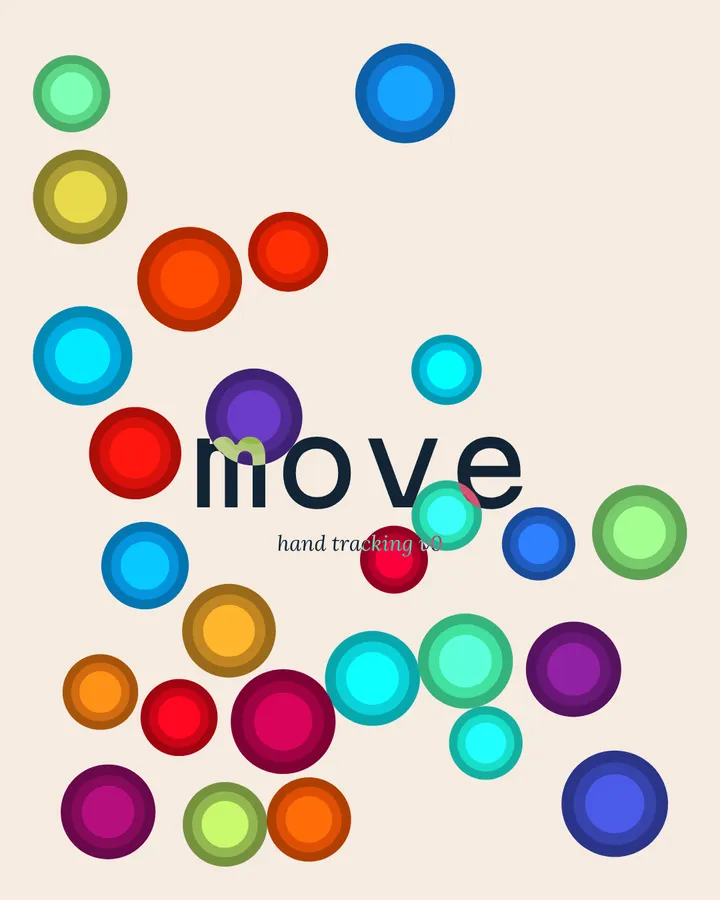
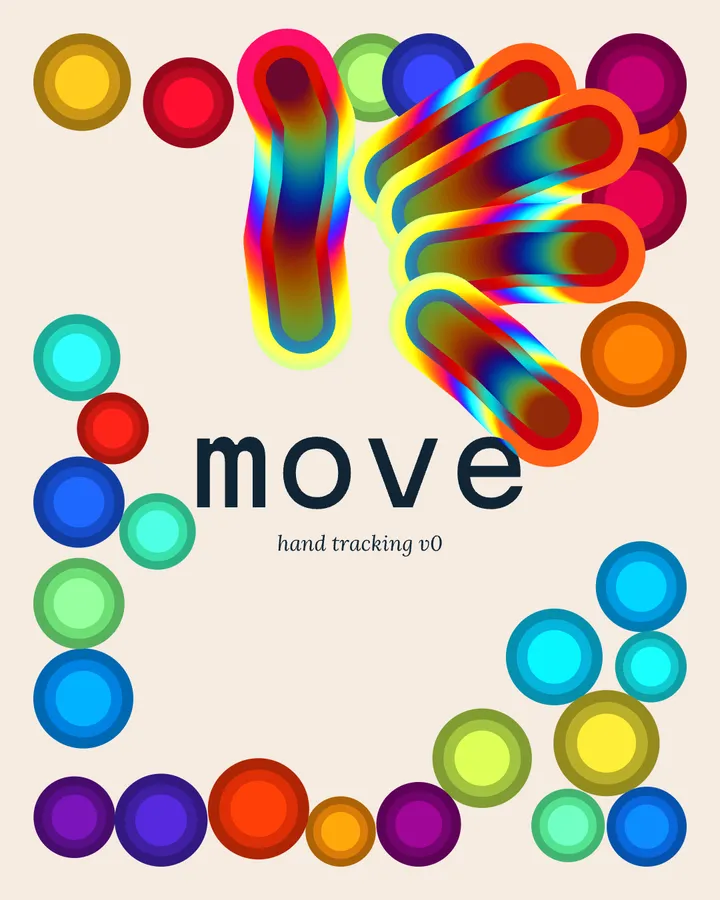
hand captures previews

diff --git a/src/templates/p5/sketches/hand-capture/hand-tracking-v0-move/options.ts b/src/templates/p5/sketches/hand-capture/hand-tracking-v0-move/options.ts
@@ -17,7 +17,7 @@ export const formValues = {
       enabled: true,
       hands: {
         ...interactionFormValues.vision.hands,
-        enabled: true,
+        enabled: false,
         landmarks: {
           fingertips: true,
           palm: true
@@ -56,7 +56,7 @@ export const formValues = {
     shadowsCount: 3,
     dotScale: 1,
     // Lower = longer light trails (less is erased each frame).
-    trail: 10
+    trail: 255
   },
 
   // Overlay text

diff --git a/src/templates/p5/sketches/hand-capture/hand-tracking-v1-attract/options.ts b/src/templates/p5/sketches/hand-capture/hand-tracking-v1-attract/options.ts
@@ -17,7 +17,7 @@ export const formValues = {
       enabled: true,
       hands: {
         ...interactionFormValues.vision.hands,
-        enabled: true,
+        enabled: false,
         landmarks: {
           fingertips: true,
           palm: true
@@ -54,7 +54,7 @@ export const formValues = {
     shadowsCount: 3,
     dotScale: 1,
     // Lower = longer light trails (less is erased each frame).
-    trail: 10
+    trail: 255
   },
 
   text: {

diff --git a/src/templates/p5/sketches/hand-capture/hand-tracking-v2-repulse/options.ts b/src/templates/p5/sketches/hand-capture/hand-tracking-v2-repulse/options.ts
@@ -17,7 +17,7 @@ export const formValues = {
       enabled: true,
       hands: {
         ...interactionFormValues.vision.hands,
-        enabled: true,
+        enabled: false,
         landmarks: {
           fingertips: true,
           palm: true
@@ -55,7 +55,7 @@ export const formValues = {
     shadowsCount: 3,
     dotScale: 1,
     // Lower = longer light trails (less is erased each frame).
-    trail: 10
+    trail: 255
   },
 
   text: {

diff --git a/src/templates/p5/sketches/hand-capture/hand-tracking-v3-restore/options.ts b/src/templates/p5/sketches/hand-capture/hand-tracking-v3-restore/options.ts
@@ -17,7 +17,7 @@ export const formValues = {
       enabled: true,
       hands: {
         ...interactionFormValues.vision.hands,
-        enabled: true,
+        enabled: false,
         landmarks: {
           fingertips: true,
           palm: true

diff --git a/src/templates/p5/sketches/hand-capture/hand-tracking-v4-text/options.ts b/src/templates/p5/sketches/hand-capture/hand-tracking-v4-text/options.ts
@@ -17,7 +17,7 @@ export const formValues = {
       enabled: true,
       hands: {
         ...interactionFormValues.vision.hands,
-        enabled: true,
+        enabled: false,
         landmarks: {
           fingertips: true,
           palm: true
